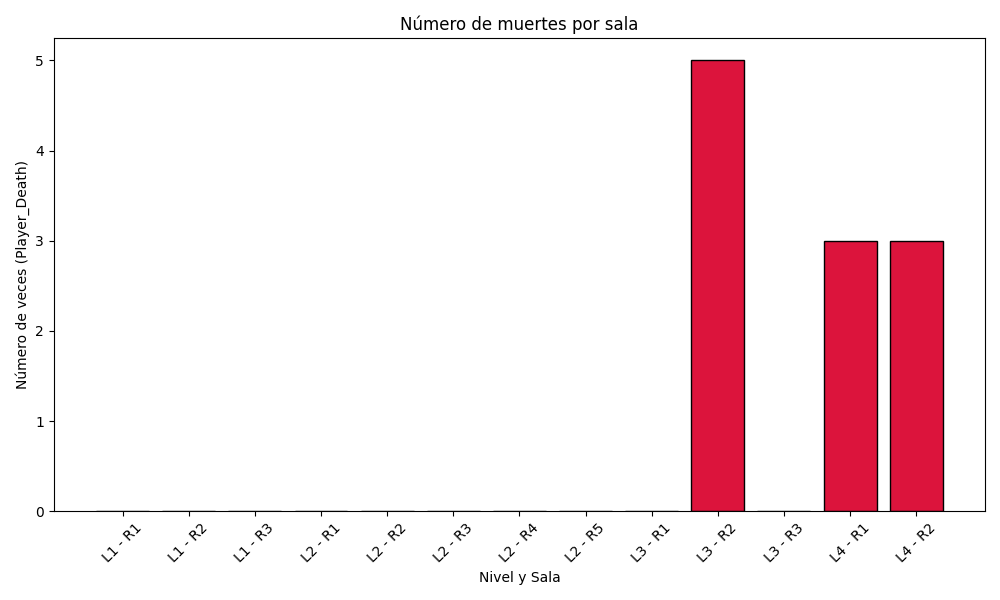
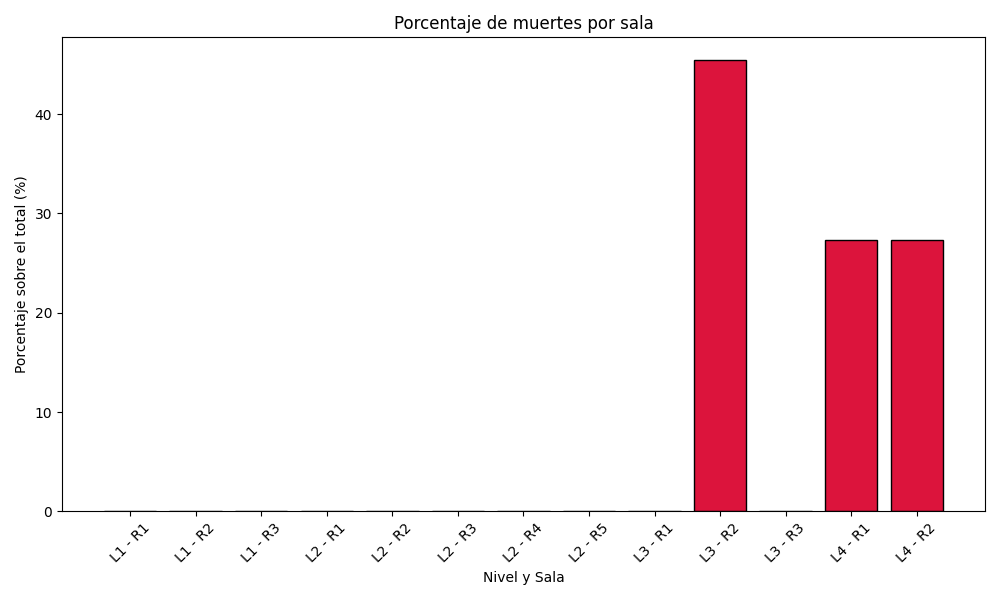
Porcentaje en vez de numero total

diff --git a/Metricas/src/Player_Death.py b/Metricas/src/Player_Death.py
@@ -77,6 +77,18 @@ for level, rooms in rooms_per_level.items():
         labels.append(label)
         counts.append(room_counter[level][room])
 
+# Calcular porcentajes
+total_deaths = sum(counts)
+percentages = []
+
+for count in counts:
+    # Evitamos la división por cero
+    if total_deaths > 0:
+        pct = (count / total_deaths) * 100
+    else:
+        pct = 0.0
+    percentages.append(pct)
+
 # Debug útil
 print(f"Archivos leídos: {files_read}")
 print(f"Total Player_Death: {sum(counts)}")
@@ -90,10 +102,10 @@ os.makedirs("graficos", exist_ok=True)
 # Crear gráfico
 plt.figure(figsize=(10, 6))
 # Usamos color 'crimson' para distinguir las muertes de los tiempos o resets
-plt.bar(labels, counts, color='crimson', edgecolor='black')
+plt.bar(labels, percentages, color='crimson', edgecolor='black')
 plt.xlabel("Nivel y Sala")
-plt.ylabel("Número de veces (Player_Death)")
-plt.title("Número de muertes por sala")
+plt.ylabel("Porcentaje sobre el total (%)")
+plt.title("Porcentaje de muertes por sala")
 plt.xticks(rotation=45)
 
 plt.tight_layout()

diff --git a/Metricas/src/Manual_Reset.py b/Metricas/src/Manual_Reset.py
@@ -76,6 +76,18 @@ for level, rooms in rooms_per_level.items():
         labels.append(label)
         counts.append(room_counter[level][room])
 
+# Calcular porcentajes
+total_resets = sum(counts)
+percentages = []
+
+for count in counts:
+    # Evitamos la división por cero si no hay ningún reset registrado
+    if total_resets > 0:
+        pct = (count / total_resets) * 100
+    else:
+        pct = 0.0
+    percentages.append(pct)
+
 # Debug útil
 print(f"Archivos leídos: {files_read}")
 print(f"Total Manual_Reset: {sum(counts)}")
@@ -84,10 +96,10 @@ os.makedirs("graficos", exist_ok=True)
 
 # Crear gráfico 
 plt.figure(figsize=(10, 6))
-plt.bar(labels, counts, color='skyblue', edgecolor='black')
+plt.bar(labels, percentages, color='skyblue', edgecolor='black')
 plt.xlabel("Nivel y Sala")
-plt.ylabel("Número de veces (Manual_Reset)")
-plt.title("Numero de resets por sala")
+plt.ylabel("Porcentaje sobre el total (%)")
+plt.title("Porcentaje de resets por sala")
 plt.xticks(rotation=45)
 
 plt.tight_layout()
